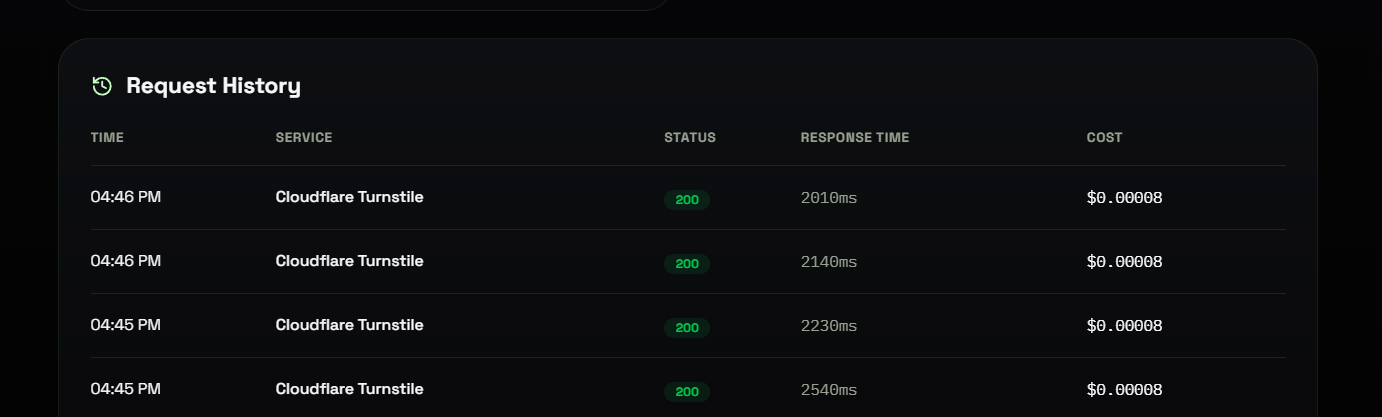
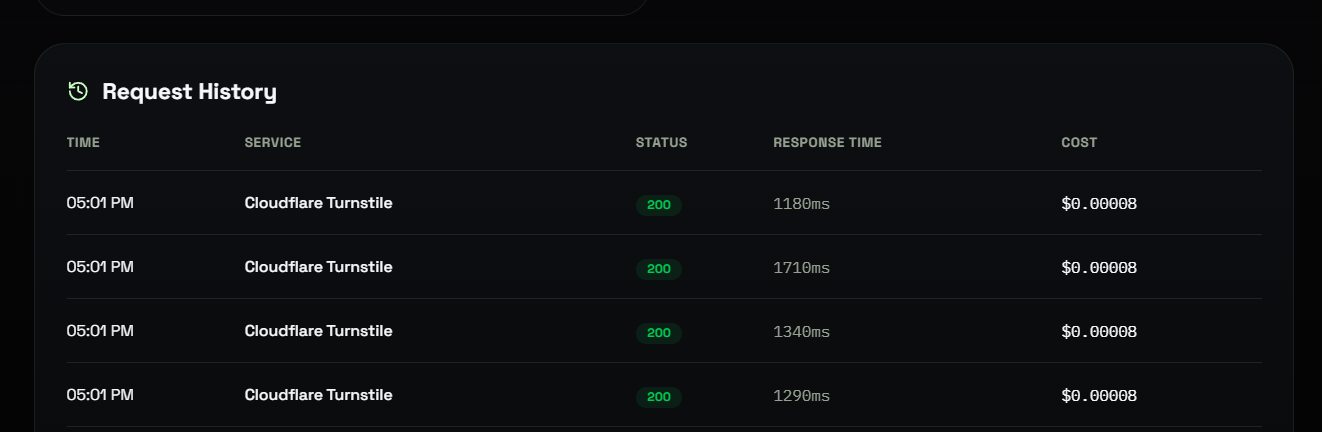
Add files via upload

diff --git a/readme.md b/readme.md
@@ -1,0 +1,101 @@
+# Cloudflare Challenge Solver (Turnstile & IUAM)
+
+[![Website](https://img.shields.io/badge/Website-xsolve.me-blue?style=for-the-badge&logo=google-chrome)](https://xsolve.me)
+[![Documentation](https://img.shields.io/badge/Docs-docs.xsolve.me-green?style=for-the-badge&logo=gitbook)](https://docs.xsolve.me/)
+
+A high-performance, ultra-fast API solver for **Cloudflare Turnstile** and **Cloudflare IUAM (Under Attack Mode)** challenges. Designed for web scraping, data extraction, and bot automation.
+
+---
+
+## 📸 Screenshot
+
+![Xsolve API Solver Screenshot](image.png)
+
+---
+
+## 🔗 Links
+
+- **Website:** [https://xsolve.me](https://xsolve.me)
+- **Documentation:** [https://docs.xsolve.me/](https://docs.xsolve.me/)
+
+---
+
+## ✨ Features
+
+- 🚀 **High Speed:** Solves under **1-4s**
+- 🛡 **Advanced Bypass:** Bypasses Turnstile (`task.turnstile`) and IUAM (`task.iuam`) defense layers.
+- 💳 **Pay-Per-Solve:** 100% success-only billing policy.
+- 🔌 **Simple Integration:** Integrate easily using HTTP requests in Python, JavaScript, Curl, Go, PHP, etc.
+
+---
+
+## 💰 Pricing & Available Tasks
+
+We offer high-performance solvers at competitive prices:
+
+| Available Task           | Task Identifier  | Price (per 1k requests) |
+| :----------------------- | :--------------- | :---------------------- |
+| **Cloudflare Turnstile** | `task.turnstile` | **$0.08**               |
+| **Cloudflare IUAM**      | `task.iuam`      | **$0.08**               |
+
+- ⚡ **Cost:** **$0.00008** per one solve
+- ✔ **Only pay for successful solves**
+- 🪙 **Payment Method:** **Cryptocurrency**
+
+### 💳 Deposit Bonuses
+
+Get extra balance when you deposit more!
+
+| Deposit Range | Bonus   | Example              |
+| :------------ | :------ | :------------------- |
+| Under $25     | 0%      | $10 → $10 balance    |
+| $25 – $49     | **20%** | $30 → $36 balance    |
+| $50 – $99     | **30%** | $75 → $97.50 balance |
+| $100 – $500   | **40%** | $200 → $280 balance  |
+
+### 💰 Deposit Value Examples
+
+That's over **12,500** CAPTCHAs solved for just a single dollar!
+
+| Deposit Amount | Bonus | Total Balance | Solves / Tokens   |
+| :------------- | :---- | :------------ | :---------------- |
+| **$1**         | —     | $1            | 12,500 (12.5k)    |
+| **$5**         | —     | $5            | 62,500 (62.5k)    |
+| **$25**        | +$5   | $30           | 375,000 (375k)    |
+| **$50**        | +$15  | $65           | 812,500 (812.5k)  |
+| **$100**       | +$40  | $140          | 1,750,000 (1.75m) |
+| **$500**       | +$200 | $700          | 8,750,000 (8.75m) |
+
+## 🚀 Quick Integration (Python)
+
+To integrate our solver into your application, use the following simple Python example:
+
+```python
+import requests
+
+url = "https://api.xsolve.me/task"
+
+headers = {
+    "X-Api-Key": "YOUR_API_KEY",
+    "Content-Type": "application/json"
+}
+
+payload = {
+    "mode": "turnstile",
+    "url": "https://example.com",
+    "sitekey": "0x4AAAAAA..."
+}
+
+response = requests.post(url, headers=headers, json=payload)
+print(response.json())
+```
+
+For full API documentation, other languages (Curl, JavaScript), and custom integrations, check our [Documentation](https://docs.xsolve.me/) or log in to your dashboard at [xsolve.me](https://xsolve.me).
+
+---
+
+## 💬 Community & Support
+
+- **Telegram Channel:** [https://t.me/rex_update](https://t.me/rex_update)
+
+* **Discord Server:** [https://discord.gg/eM6wqY7z53](https://discord.gg/eM6wqY7z53)
